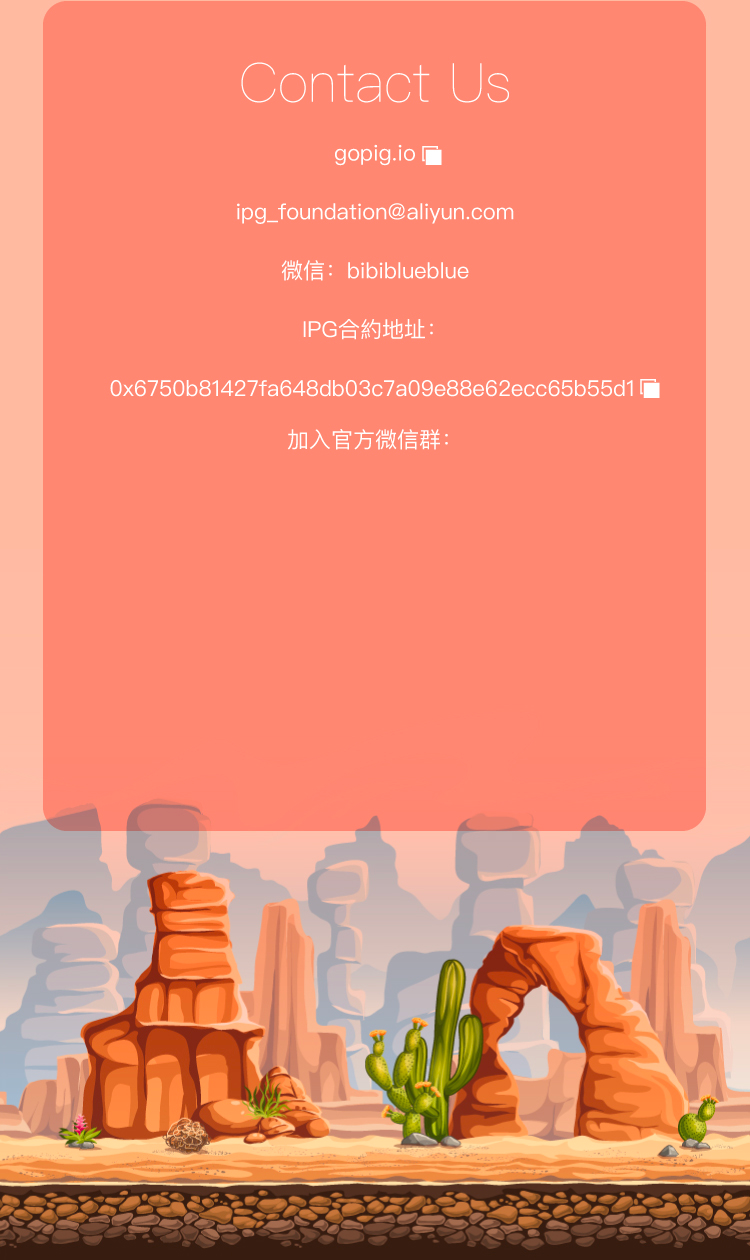
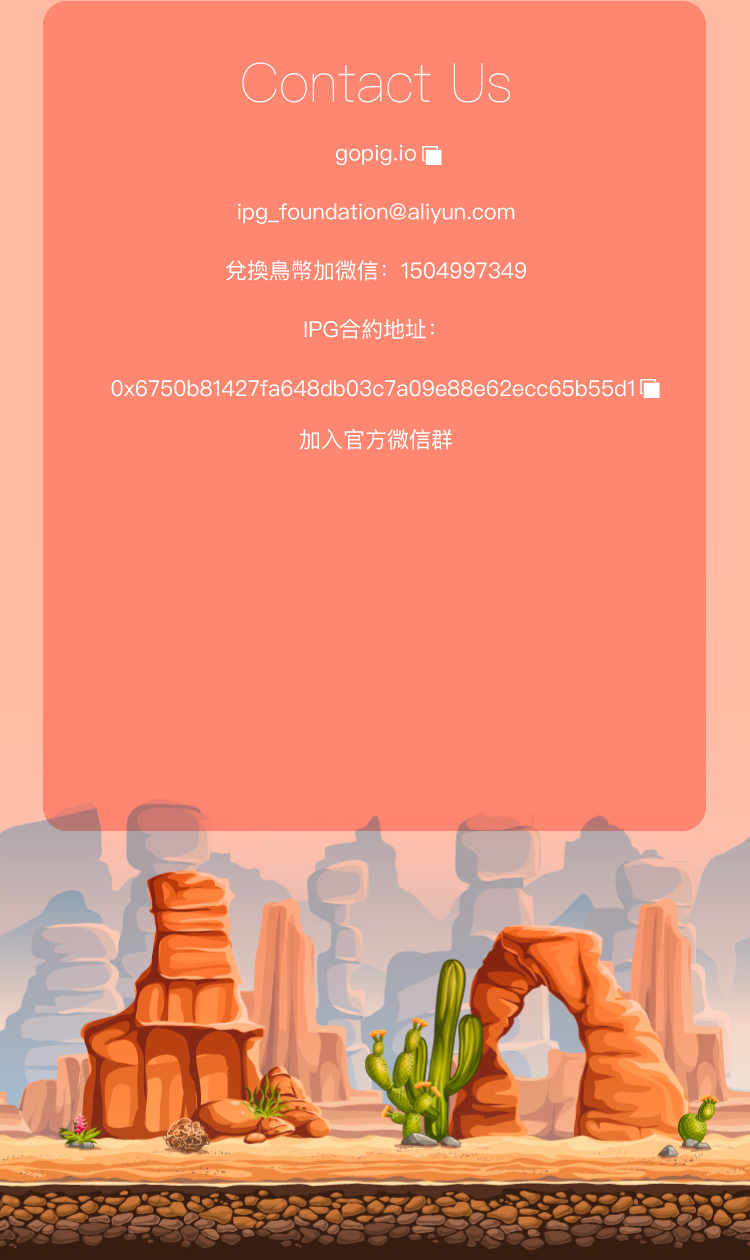
1

diff --git a/c/index.html b/c/index.html
@@ -203,16 +203,14 @@
 				<img style="width: 20%;margin-left: 40%" src="images/zc12.png" />
 				<div style="margin-top: 0.6rem;font-size: 0.2rem;">gopig.io&nbsp;<span data-clipboard-text="gopig.io" style="" class="glyphicon glyphicon-book btn1"></span></div>
 				<div style="margin-top: 0.1rem;font-size: 0.2rem;">郵箱：info@gopig.io</div>
-				<div style="margin-top: 0.1rem;font-size: 0.2rem;">客服微信：1504997349</div>
+				<div style="margin-top: 0.1rem;font-size: 0.2rem;">兌換鳥幣加微信：1504997349</div>
 				<div style="margin-top: 0.1rem;font-size: 0.2rem;">合約地址：</div>
 				<div style="margin-top: 0.1rem;font-size: 0.2rem;">0x6750b81427fa648db03c7a09e88e62ecc65b55d1 &nbsp;<span data-clipboard-text="0x6750b81427fa648db03c7a09e88e62ecc65b55d1" style="" class="btn2 glyphicon glyphicon-book"></span></div>
 				<div style="margin-top: 0.1rem;font-size: 0.2rem;">Telegram：t.me/gopig</div>
-				<div style="margin-top: 0.1rem;font-size: 0.2rem;">加入交流群（@群主進官方社群）</div>
+				<div style="margin-top: 0.1rem;font-size: 0.2rem;">加入官方微信</div>
 				
-				<img style="float: left;margin-left: 20%;width: 10%;margin-top: 0.4rem;" src="images/qun6.png" />
-				<img style="float: left;margin-left: 5%;width: 10%;margin-top: 0.4rem;" src="images/qun7.png" />
-				<img style="float: left;margin-left: 5%;width: 10%;margin-top: 0.4rem;" src="images/qun8.png" />
-				<img style="float: left;margin-left: 5%;width: 10%;margin-top: 0.4rem;" src="images/qun9.png" />
+				<div style="height: 0.4rem;"></div>
+				<img style="width: 20%;margin: auto;" src="images/qun.png" />
 			</div>
 			<!--<img style="width: 3.7rem;padding-top: 0.82rem;margin-left: 2.4rem;height: 4.54rem;" src="images/zc9.png" />-->
 			<!--<img style="width: 20%;margin-top: 0.36rem;margin-left: 40%;" src="images/zc10.png" />-->

diff --git a/index.html b/index.html
@@ -254,9 +254,9 @@
 				<div data-clipboard-text="gopig.io" style="position: absolute;width: 0.5rem;height: 0.5rem;margin-top: -15rem;margin-left: 5.5rem;" class="btn1"></div>
 				<div data-clipboard-text="0x6750b81427fa648db03c7a09e88e62ecc65b55d1" style="position: absolute;width: 0.5rem;height: 0.5rem;margin-top: -11.9rem;margin-left: 8.4rem;" class="btn2"></div>
 				<img style="width: 3.55rem;height: 3.55rem;position: absolute;margin-left: 3.225rem;margin-top: -10.6rem;border-radius: 0.2rem;" src="images/qun.png" />
-				<div style="position: absolute;margin-top: -6.8rem;font-size: 0.28rem;color: white;text-align: center;width: 100%;">如果無法加入請加客服微信進群</div>
+				<!--<div style="position: absolute;margin-top: -6.8rem;font-size: 0.28rem;color: white;text-align: center;width: 100%;">如果無法加入請加客服微信進群</div>-->
 				<a href="http://gopig.io/IPGWhitePaper.pdf">
-					<div style="position: absolute;margin-top: -6.3rem;font-size: 0.32rem;color: white;margin-left: 4rem;">下載白皮書</div>
+					<div style="position: absolute;margin-top: -6.6rem;font-size: 0.32rem;color: white;margin-left: 4rem;">下載白皮書</div>
 				</a>
 			</div>
 
